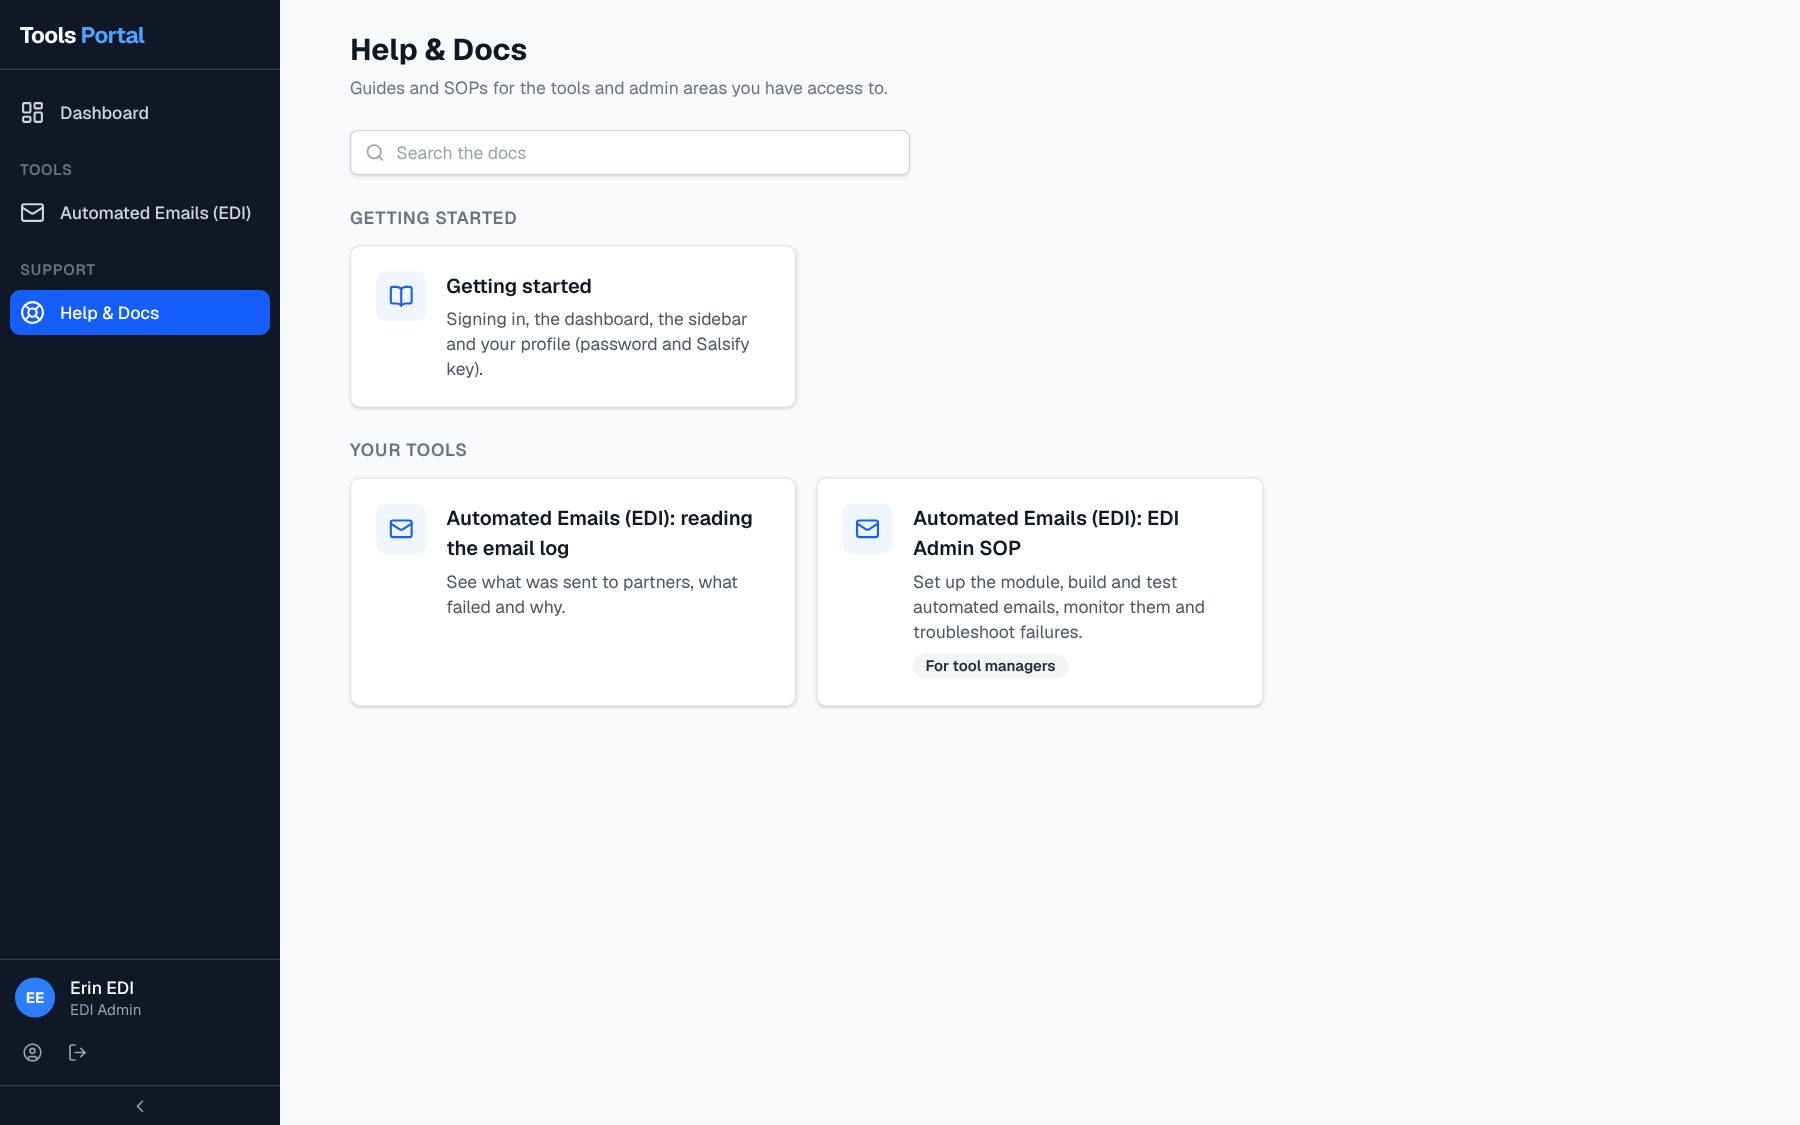
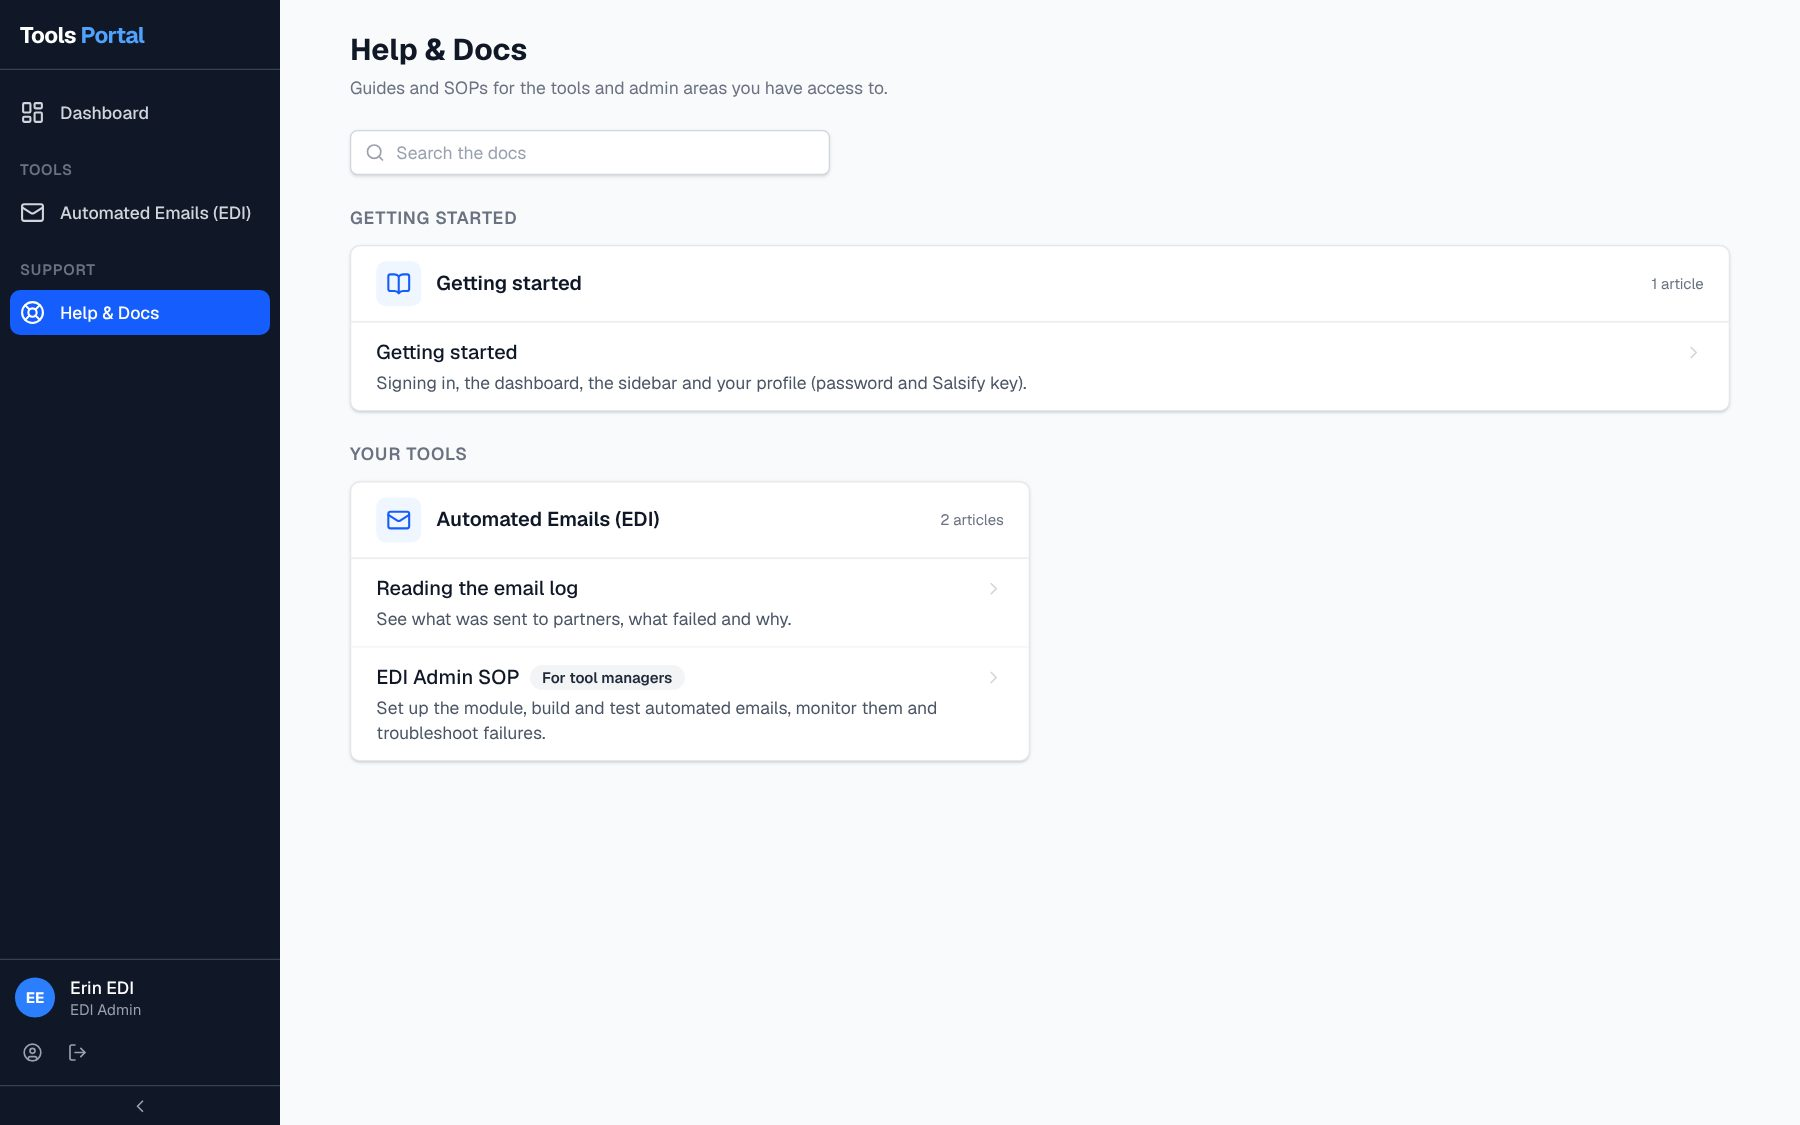
Help & Docs: articles grouped by tool
- The index has one box per tool (in the sidebar's order) listing its
  articles with short titles (Guide, Methodology & calculations, Settings),
  a "For tool managers" badge, and buttons to show one tool; search still
  covers every title and summary. Getting started and Administration are
  boxes too.
- Articles show their tool's name, and the path at the top leads back to
  that tool's articles (/help?tool=…).
- Getting started describes the new layout (screenshot retaken); stale
  Packaging Configurator summaries fixed.

Claude-Session: https://claude.ai/code/session_01BEHV9ScssjWxbAnSVd5wjC

diff --git a/src/app/(app)/help/help-index.tsx b/src/app/(app)/help/help-index.tsx
@@ -2,60 +2,132 @@
 
 import { useMemo, useState } from "react";
 import Link from "next/link";
-import { BookOpen, Search, Shield } from "lucide-react";
+import { BookOpen, ChevronRight, Search, Shield } from "lucide-react";
 import { Input } from "@/components/ui/input";
 import { Badge } from "@/components/ui/badge";
 import { Card, CardContent } from "@/components/ui/card";
 import { ToolIcon } from "@/components/tool-icon";
+import { cn } from "@/lib/utils";
 
 type Doc = { slug: string; title: string; summary: string; section: "start" | "tools" | "admin"; toolSlug: string | null; manager: boolean };
+type Tool = { slug: string; name: string; icon: string };
 
-export function HelpIndex({ docs, sections, tools }: { docs: Doc[]; sections: Record<Doc["section"], string>; tools: Record<string, { name: string; icon: string }> }) {
+/** Inside a tool's group the tool's name is the heading, so "Packaging Configurator: settings" reads "Settings". */
+function shortTitle(title: string, toolName: string | undefined) {
+  const prefix = title.indexOf(": ");
+  if (prefix < 0) return title;
+  const head = title.slice(0, prefix);
+  if (toolName && !toolName.toLowerCase().startsWith(head.toLowerCase().replace(/\s*\(.*\)$/, ""))) return title;
+  const rest = title.slice(prefix + 2);
+  return rest.charAt(0).toUpperCase() + rest.slice(1);
+}
+
+function DocRow({ d, title }: { d: Doc; title: string }) {
+  return (
+    <Link href={`/help/${d.slug}`} className="group flex items-start gap-3 border-t border-gray-100 px-5 py-3 first:border-t-0 hover:bg-gray-50">
+      <div className="min-w-0 flex-1">
+        <div className="flex flex-wrap items-center gap-2 font-medium text-gray-900 group-hover:text-blue-600">
+          {title}
+          {d.manager && <Badge variant="secondary">For tool managers</Badge>}
+        </div>
+        <p className="mt-0.5 text-sm text-gray-600">{d.summary}</p>
+      </div>
+      <ChevronRight className="mt-1 h-4 w-4 shrink-0 text-gray-300 group-hover:text-blue-600" />
+    </Link>
+  );
+}
+
+function Group({ icon, title, count, children }: { icon: React.ReactNode; title: string; count: number; children: React.ReactNode }) {
+  return (
+    <Card>
+      <div className="flex items-center gap-3 border-b border-gray-200 px-5 py-3">
+        <div className="flex h-9 w-9 shrink-0 items-center justify-center rounded-lg bg-blue-50">{icon}</div>
+        <h3 className="font-semibold text-gray-900">{title}</h3>
+        <span className="ml-auto text-xs text-gray-500">
+          {count} article{count === 1 ? "" : "s"}
+        </span>
+      </div>
+      <CardContent className="p-0">{children}</CardContent>
+    </Card>
+  );
+}
+
+export function HelpIndex({ docs, sections, tools, initialTool }: { docs: Doc[]; sections: Record<Doc["section"], string>; tools: Tool[]; initialTool: string | null }) {
   const [q, setQ] = useState("");
+  const [tool, setTool] = useState<string | null>(initialTool && tools.some((t) => t.slug === initialTool) ? initialTool : null);
   const shown = useMemo(() => {
     const t = q.trim().toLowerCase();
-    return t ? docs.filter((d) => `${d.title} ${d.summary}`.toLowerCase().includes(t)) : docs;
-  }, [docs, q]);
+    return docs.filter((d) => (!tool || d.toolSlug === tool) && (!t || `${d.title} ${d.summary}`.toLowerCase().includes(t)));
+  }, [docs, q, tool]);
 
-  const icon = (d: Doc) =>
-    d.toolSlug && tools[d.toolSlug] ? <ToolIcon name={tools[d.toolSlug].icon} className="h-5 w-5 text-blue-600" /> : d.section === "admin" ? <Shield className="h-5 w-5 text-blue-600" /> : <BookOpen className="h-5 w-5 text-blue-600" />;
+  const start = shown.filter((d) => d.section === "start");
+  const admin = shown.filter((d) => d.section === "admin");
+  // one group per tool, in the sidebar's order
+  const byTool = tools.map((t) => ({ tool: t, docs: shown.filter((d) => d.section === "tools" && d.toolSlug === t.slug) })).filter((g) => g.docs.length);
+  const toolsWithDocs = tools.filter((t) => docs.some((d) => d.toolSlug === t.slug));
 
   return (
     <div className="space-y-6">
-      <div className="relative max-w-md">
-        <Search className="absolute left-3 top-1/2 -translate-y-1/2 h-4 w-4 text-gray-400" />
-        <Input value={q} onChange={(e) => setQ(e.target.value)} placeholder="Search the docs" className="pl-9" aria-label="Search the docs" />
+      <div className="flex flex-wrap items-center gap-3">
+        <div className="relative w-full max-w-sm">
+          <Search className="absolute left-3 top-1/2 h-4 w-4 -translate-y-1/2 text-gray-400" />
+          <Input value={q} onChange={(e) => setQ(e.target.value)} placeholder="Search the docs" className="pl-9" aria-label="Search the docs" />
+        </div>
+        {toolsWithDocs.length > 1 && (
+          <div className="flex flex-wrap gap-2" role="group" aria-label="Show one tool">
+            {[{ slug: null as string | null, name: "All" }, ...toolsWithDocs].map((t) => (
+              <button
+                key={t.slug ?? "all"}
+                type="button"
+                onClick={() => setTool(t.slug)}
+                aria-pressed={tool === t.slug}
+                className={cn("rounded-full border px-3 py-1 text-xs font-medium", tool === t.slug ? "border-blue-600 bg-blue-50 text-blue-700" : "border-gray-200 bg-white text-gray-600 hover:bg-gray-50")}
+              >
+                {t.name}
+              </button>
+            ))}
+          </div>
+        )}
       </div>
-      {(Object.keys(sections) as Doc["section"][]).map((section) => {
-        const list = shown.filter((d) => d.section === section);
-        if (!list.length) return null;
-        return (
-          <section key={section} className="space-y-3">
-            <h2 className="text-sm font-semibold uppercase tracking-wider text-gray-500">{sections[section]}</h2>
-            <div className="grid gap-4 sm:grid-cols-2 lg:grid-cols-3">
-              {list.map((d) => (
-                <Link key={d.slug} href={`/help/${d.slug}`} className="group">
-                  <Card className="h-full transition-shadow group-hover:shadow-md">
-                    <CardContent className="p-5 flex gap-4">
-                      <div className="h-10 w-10 shrink-0 rounded-lg bg-blue-50 flex items-center justify-center">{icon(d)}</div>
-                      <div className="min-w-0">
-                        <p className="font-semibold text-gray-900 group-hover:text-blue-600">{d.title}</p>
-                        <p className="text-sm text-gray-600 mt-1">{d.summary}</p>
-                        {d.manager && (
-                          <Badge variant="secondary" className="mt-2">
-                            For tool managers
-                          </Badge>
-                        )}
-                      </div>
-                    </CardContent>
-                  </Card>
-                </Link>
-              ))}
-            </div>
-          </section>
-        );
-      })}
-      {!shown.length && <p className="text-sm text-gray-500">No docs match &quot;{q}&quot;.</p>}
+
+      {start.length > 0 && (
+        <section className="space-y-3">
+          <h2 className="text-sm font-semibold uppercase tracking-wider text-gray-500">{sections.start}</h2>
+          <Group icon={<BookOpen className="h-5 w-5 text-blue-600" />} title={sections.start} count={start.length}>
+            {start.map((d) => (
+              <DocRow key={d.slug} d={d} title={d.title} />
+            ))}
+          </Group>
+        </section>
+      )}
+
+      {byTool.length > 0 && (
+        <section className="space-y-3">
+          <h2 className="text-sm font-semibold uppercase tracking-wider text-gray-500">{sections.tools}</h2>
+          <div className="grid gap-4 lg:grid-cols-2">
+            {byTool.map(({ tool: t, docs: list }) => (
+              <Group key={t.slug} icon={<ToolIcon name={t.icon} className="h-5 w-5 text-blue-600" />} title={t.name} count={list.length}>
+                {list.map((d) => (
+                  <DocRow key={d.slug} d={d} title={shortTitle(d.title, t.name)} />
+                ))}
+              </Group>
+            ))}
+          </div>
+        </section>
+      )}
+
+      {admin.length > 0 && (
+        <section className="space-y-3">
+          <h2 className="text-sm font-semibold uppercase tracking-wider text-gray-500">{sections.admin}</h2>
+          <Group icon={<Shield className="h-5 w-5 text-blue-600" />} title={sections.admin} count={admin.length}>
+            {admin.map((d) => (
+              <DocRow key={d.slug} d={d} title={d.title} />
+            ))}
+          </Group>
+        </section>
+      )}
+
+      {!shown.length && <p className="text-sm text-gray-500">No docs match{q ? ` "${q}"` : ""}.</p>}
     </div>
   );
 }

diff --git a/src/lib/help/registry.ts b/src/lib/help/registry.ts
@@ -21,7 +21,7 @@ export type HelpDoc = {
 };
 
 export const HELP_DOCS: HelpDoc[] = [
-  { slug: "getting-started", title: "Getting started", summary: "Signing in, the dashboard, the sidebar and your profile (password and Salsify key).", section: "start", audience: { everyone: true }, updated: "2026-11-19" },
+  { slug: "getting-started", title: "Getting started", summary: "Signing in, the dashboard, the sidebar and your profile (password and Salsify key).", section: "start", audience: { everyone: true }, updated: "2026-11-24" },
 
   { slug: "shopify-discounts", title: "Shopify Discount Code Generator: SOP", summary: "Create discount codes on our Shopify stores and check the discount log.", section: "tools", toolSlug: "shopify-discounts", audience: { tool: "shopify-discounts" }, updated: "2026-11-19" },
   { slug: "shopify-discounts-admin", title: "Shopify Discount Code Generator: stores & form settings", summary: "Connect stores, and preset or lock the New discount form for everyone else.", section: "tools", toolSlug: "shopify-discounts", audience: { toolManager: "shopify-discounts" }, updated: "2026-11-19" },
@@ -30,8 +30,8 @@ export const HELP_DOCS: HelpDoc[] = [
   { slug: "shipping-rates-methodology", title: "Shipping Rates Generator: methodology & calculations", summary: "How every number is worked out: billable weight, the rate chart, cutoffs, accuracy, the blended cost and warehouse split, the reality check, the API Report.", section: "tools", toolSlug: "shipping-rates", audience: { tool: "shipping-rates" }, updated: "2026-11-21" },
   { slug: "shipping-rates-admin", title: "Shipping Rates Generator: settings", summary: "Warehouses, UPS accounts, UPS/Endicia/Salsify/Mango connections and schedules.", section: "tools", toolSlug: "shipping-rates", audience: { toolManager: "shipping-rates" }, updated: "2026-11-19" },
 
-  { slug: "packaging-configurator", title: "Packaging Configurator: guide", summary: "Find the best packaging for parts, scanned UPCs or a typed-in size; push a chosen packaging to Salsify; pack many orders at once; the Products list, the report and the packaging review.", section: "tools", toolSlug: "packaging-configurator", audience: { tool: "packaging-configurator" }, updated: "2026-11-24" },
-  { slug: "packaging-configurator-methodology", title: "Packaging Configurator: methodology & calculations", summary: "How fits, mailers, folding, DIM and billed weight, shipping methods, LTL, the report, the packaging review and the Salsify push are worked out.", section: "tools", toolSlug: "packaging-configurator", audience: { tool: "packaging-configurator" }, updated: "2026-11-24" },
+  { slug: "packaging-configurator", title: "Packaging Configurator: guide", summary: "Find the best packaging for parts, scanned UPCs or a typed-in size; push a chosen packaging to Salsify; pack many orders at once; the Products list and the report.", section: "tools", toolSlug: "packaging-configurator", audience: { tool: "packaging-configurator" }, updated: "2026-11-24" },
+  { slug: "packaging-configurator-methodology", title: "Packaging Configurator: methodology & calculations", summary: "How fits, mailers, folding, DIM and billed weight, shipping methods, LTL, the report (including how products ship today) and the Salsify push are worked out.", section: "tools", toolSlug: "packaging-configurator", audience: { tool: "packaging-configurator" }, updated: "2026-11-24" },
   { slug: "packaging-configurator-admin", title: "Packaging Configurator: settings", summary: "Packaging, shipping methods and rate cards, fit rules, the Salsify list, and the sync, report and push.", section: "tools", toolSlug: "packaging-configurator", audience: { toolManager: "packaging-configurator" }, updated: "2026-11-24" },
 
   { slug: "auto-emails-log", title: "Automated Emails (EDI): reading the email log", summary: "See what was sent to partners, what failed and why.", section: "tools", toolSlug: "auto-emails", audience: { tool: "auto-emails" }, updated: "2026-11-19" },

diff --git a/src/app/(app)/help/[slug]/page.tsx b/src/app/(app)/help/[slug]/page.tsx
@@ -3,6 +3,7 @@ import Link from "next/link";
 import { notFound } from "next/navigation";
 import { ArrowLeft } from "lucide-react";
 import { requireUser } from "@/lib/rbac";
+import { prisma } from "@/lib/prisma";
 import { logAudit } from "@/lib/audit";
 import { canSeeDoc, readDoc, visibleDocs } from "@/lib/help/access";
 import { docBySlug, SECTION_TITLES } from "@/lib/help/registry";
@@ -27,18 +28,29 @@ export default async function HelpDocPage({ params }: { params: Promise<{ slug: 
   const toc = tableOfContents(markdown);
   // other docs for the same tool this user can read
   const related = visibleDocs(user).filter((d) => d.slug !== slug && d.toolSlug && d.toolSlug === doc.toolSlug);
+  const tool = doc.toolSlug ? await prisma.tool.findUnique({ where: { slug: doc.toolSlug }, select: { name: true } }) : null;
 
   return (
     <div className="p-6 max-w-6xl mx-auto print:p-0 print:max-w-none">
       <div className="flex flex-wrap items-center justify-between gap-3 mb-4 print:hidden">
-        <Link href="/help" className="inline-flex items-center gap-1.5 text-sm text-gray-600 hover:text-gray-900">
-          <ArrowLeft className="h-4 w-4" /> Help &amp; Docs
-        </Link>
+        <nav aria-label="Breadcrumb" className="flex items-center gap-1.5 text-sm text-gray-600">
+          <Link href="/help" className="inline-flex items-center gap-1.5 hover:text-gray-900">
+            <ArrowLeft className="h-4 w-4" /> Help &amp; Docs
+          </Link>
+          {tool && doc.toolSlug && (
+            <>
+              <span className="text-gray-300">/</span>
+              <Link href={`/help?tool=${encodeURIComponent(doc.toolSlug)}`} className="hover:text-gray-900">
+                {tool.name}
+              </Link>
+            </>
+          )}
+        </nav>
         <PrintButton />
       </div>
       <div className="grid gap-8 lg:grid-cols-[minmax(0,1fr)_15rem]">
         <article className="rounded-xl border border-gray-200 bg-white px-6 py-6 sm:px-10 sm:py-8 print:border-0 print:p-0">
-          <p className="text-xs font-semibold uppercase tracking-wider text-gray-500">{SECTION_TITLES[doc.section]}</p>
+          <p className="text-xs font-semibold uppercase tracking-wider text-gray-500">{tool?.name ?? SECTION_TITLES[doc.section]}</p>
           <h1 className="mt-2 text-2xl font-bold text-gray-900">{doc.title}</h1>
           <p className="text-xs text-gray-500 mt-2">Last updated {new Date(`${doc.updated}T12:00:00Z`).toLocaleDateString("en-US", { year: "numeric", month: "long", day: "numeric" })}</p>
           <div className="mt-4">

diff --git a/src/app/(app)/help/page.tsx b/src/app/(app)/help/page.tsx
@@ -8,17 +8,19 @@ import { HelpIndex } from "./help-index";
 
 export const metadata: Metadata = { title: "Help & Docs" };
 
-export default async function HelpPage() {
+export default async function HelpPage({ searchParams }: { searchParams: Promise<{ tool?: string }> }) {
   const user = await requireUser();
+  const { tool } = await searchParams;
   const docs = visibleDocs(user);
-  const tools = await prisma.tool.findMany({ where: { slug: { in: [...new Set(docs.map((d) => d.toolSlug).filter(Boolean) as string[])] } }, select: { slug: true, name: true, icon: true } });
+  const tools = await prisma.tool.findMany({ where: { slug: { in: [...new Set(docs.map((d) => d.toolSlug).filter(Boolean) as string[])] } }, select: { slug: true, name: true, icon: true }, orderBy: [{ sortOrder: "asc" }, { name: "asc" }] });
   return (
     <div className="p-6 max-w-6xl mx-auto space-y-6">
       <PageHeader title="Help & Docs" description="Guides and SOPs for the tools and admin areas you have access to." />
       <HelpIndex
         docs={docs.map((d) => ({ slug: d.slug, title: d.title, summary: d.summary, section: d.section, toolSlug: d.toolSlug ?? null, manager: "toolManager" in d.audience }))}
         sections={SECTION_TITLES}
-        tools={Object.fromEntries(tools.map((t) => [t.slug, { name: t.name, icon: t.icon }]))}
+        tools={tools}
+        initialTool={tool ?? null}
       />
     </div>
   );

diff --git a/src/content/help/getting-started.md b/src/content/help/getting-started.md
@@ -31,7 +31,9 @@ Click the person icon at the bottom of the sidebar.
 
 ## Help & Docs
 
-**Help & Docs** shows only the guides for the tools and admin areas **you** can access, so what you see may differ from a colleague. Tools also have a **Help** link next to their tabs that opens the right guide for you.
+**Help & Docs** shows only the guides for the tools and admin areas **you** can access, so what you see may differ from a colleague. The guides are grouped by tool, one box per tool with its articles listed inside; the buttons above narrow the page to one tool, and the search box searches every title and summary. In a guide, the path at the top (*Help & Docs / tool name*) takes you back to that tool's articles, and the side bar lists its other articles.
+
+Tools also have a **Help** link next to their tabs that opens the right guide for you.
 
 ![Help & Docs](images/help-index.jpg)
 
